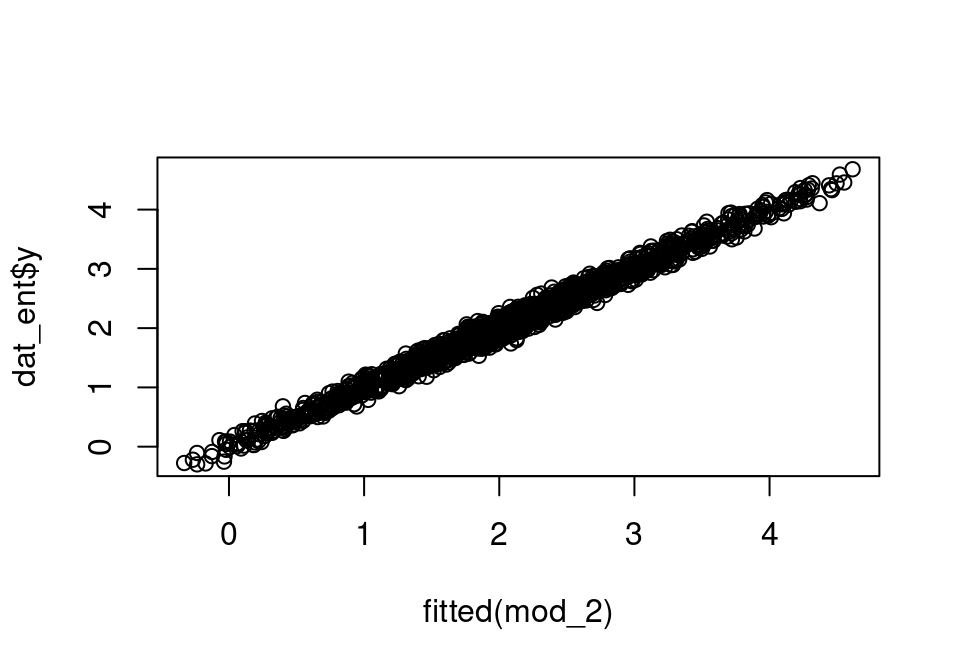
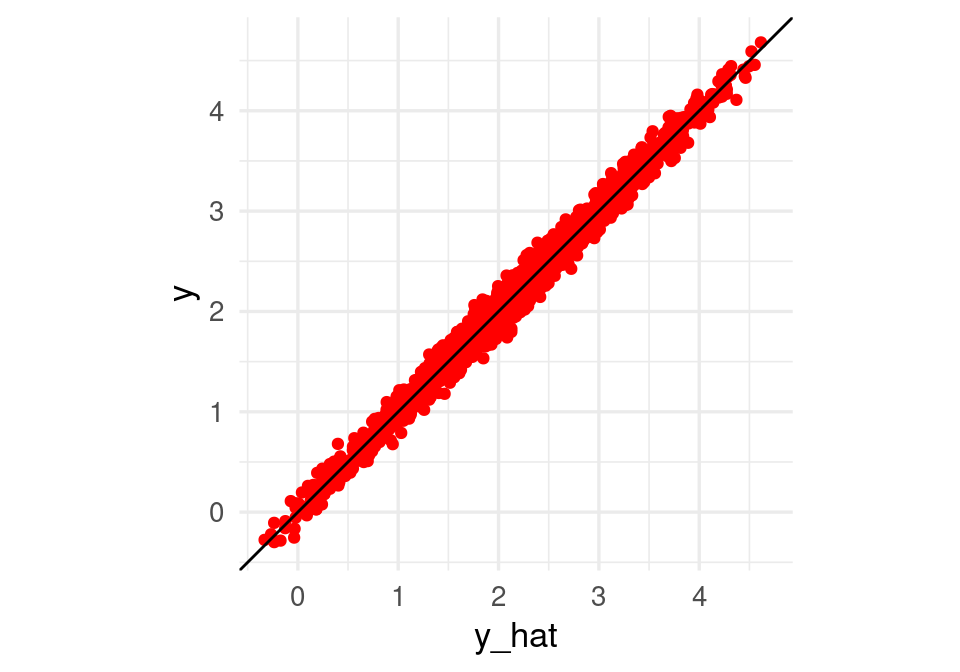
Deploying to gh-pages from @ felipegonzalez/aprendizaje-maquina-mcd-2023@daa3345ac498880e7dccf227820fdfc2909926fc 🚀

diff --git a/06-redes-neuronales-1.html b/06-redes-neuronales-1.html
@@ -489,19 +489,19 @@ La función logística está dada por <span class="math display">\[h(x)=\frac{e^
 <div class="sourceCode cell-code" id="cb26"><pre class="sourceCode r code-with-copy"><code class="sourceCode r"><span id="cb26-1"><a href="#cb26-1" aria-hidden="true" tabindex="-1"></a><span class="fu">get_weights</span>(ejemplo_mod)</span></code><button title="Copiar al portapapeles" class="code-copy-button"><i class="bi"></i></button></pre></div>
 <div class="cell-output cell-output-stdout">
 <pre><code>[[1]]
-         [,1]     [,2]
-[1,] 2.161883 3.875308
+         [,1]    [,2]
+[1,] 2.150227 3.87858
 
 [[2]]
-[1] -1.957988  3.943473
+[1] -1.935077  3.943532
 
 [[3]]
           [,1]
-[1,] -3.081656
-[2,]  3.054342
+[1,] -3.088956
+[2,]  3.060517
 
 [[4]]
-[1] -1.518722</code></pre>
+[1] -1.517978</code></pre>
 </div>
 </div>
 <p><strong>Ejercicio</strong>: compara los coeficientes que obtuviste en este ejemplo con los anteriores.</p>
@@ -543,7 +543,10 @@ Coefficients:
 </div>
 <p>El resultado del modelo lineal no es bueno:</p>
 <div class="cell">
-<div class="sourceCode cell-code" id="cb31"><pre class="sourceCode r code-with-copy"><code class="sourceCode r"><span id="cb31-1"><a href="#cb31-1" aria-hidden="true" tabindex="-1"></a><span class="fu">plot</span>(<span class="fu">fitted</span>(mod_1), dat_ent<span class="sc">$</span>y)</span></code><button title="Copiar al portapapeles" class="code-copy-button"><i class="bi"></i></button></pre></div>
+<div class="sourceCode cell-code" id="cb31"><pre class="sourceCode r code-with-copy"><code class="sourceCode r"><span id="cb31-1"><a href="#cb31-1" aria-hidden="true" tabindex="-1"></a><span class="fu">tibble</span>(<span class="at">y_hat =</span> <span class="fu">fitted</span>(mod_1), <span class="at">y =</span> dat_ent<span class="sc">$</span>y) <span class="sc">|&gt;</span> </span>
+<span id="cb31-2"><a href="#cb31-2" aria-hidden="true" tabindex="-1"></a>  <span class="fu">ggplot</span>(<span class="fu">aes</span>(<span class="at">x =</span> y_hat, <span class="at">y =</span> y)) <span class="sc">+</span> <span class="fu">geom_point</span>(<span class="at">color =</span> <span class="st">"red"</span>) <span class="sc">+</span></span>
+<span id="cb31-3"><a href="#cb31-3" aria-hidden="true" tabindex="-1"></a>  <span class="fu">geom_abline</span>() <span class="sc">+</span></span>
+<span id="cb31-4"><a href="#cb31-4" aria-hidden="true" tabindex="-1"></a>  <span class="fu">coord_obs_pred</span>()</span></code><button title="Copiar al portapapeles" class="code-copy-button"><i class="bi"></i></button></pre></div>
 <div class="cell-output-display">
 <p><img src="06-redes-neuronales-1_files/figure-html/unnamed-chunk-26-1.png" class="img-fluid" width="480"></p>
 </div>
@@ -561,7 +564,10 @@ Coefficients:
 (Intercept)           x1           x2        x1:x2  
       4.499       -4.895       -4.885        9.964  </code></pre>
 </div>
-<div class="sourceCode cell-code" id="cb34"><pre class="sourceCode r code-with-copy"><code class="sourceCode r"><span id="cb34-1"><a href="#cb34-1" aria-hidden="true" tabindex="-1"></a><span class="fu">plot</span>(<span class="fu">fitted</span>(mod_2), dat_ent<span class="sc">$</span>y)</span></code><button title="Copiar al portapapeles" class="code-copy-button"><i class="bi"></i></button></pre></div>
+<div class="sourceCode cell-code" id="cb34"><pre class="sourceCode r code-with-copy"><code class="sourceCode r"><span id="cb34-1"><a href="#cb34-1" aria-hidden="true" tabindex="-1"></a><span class="fu">tibble</span>(<span class="at">y_hat =</span> <span class="fu">fitted</span>(mod_2), <span class="at">y =</span> dat_ent<span class="sc">$</span>y) <span class="sc">|&gt;</span> </span>
+<span id="cb34-2"><a href="#cb34-2" aria-hidden="true" tabindex="-1"></a>  <span class="fu">ggplot</span>(<span class="fu">aes</span>(<span class="at">x =</span> y_hat, <span class="at">y =</span> y)) <span class="sc">+</span> <span class="fu">geom_point</span>(<span class="at">color =</span> <span class="st">"red"</span>) <span class="sc">+</span></span>
+<span id="cb34-3"><a href="#cb34-3" aria-hidden="true" tabindex="-1"></a>  <span class="fu">geom_abline</span>() <span class="sc">+</span></span>
+<span id="cb34-4"><a href="#cb34-4" aria-hidden="true" tabindex="-1"></a>  <span class="fu">coord_obs_pred</span>()</span></code><button title="Copiar al portapapeles" class="code-copy-button"><i class="bi"></i></button></pre></div>
 <div class="cell-output-display">
 <p><img src="06-redes-neuronales-1_files/figure-html/unnamed-chunk-27-1.png" class="img-fluid" width="480"></p>
 </div>
@@ -578,11 +584,11 @@ Coefficients:
 </div>
 <div class="cell">
 <div class="sourceCode cell-code" id="cb36"><pre class="sourceCode r code-with-copy"><code class="sourceCode r"><span id="cb36-1"><a href="#cb36-1" aria-hidden="true" tabindex="-1"></a>mod_inter <span class="sc">|&gt;</span> <span class="fu">compile</span>(<span class="at">loss =</span> <span class="st">"mse"</span>, </span>
-<span id="cb36-2"><a href="#cb36-2" aria-hidden="true" tabindex="-1"></a>  <span class="at">optimizer =</span> <span class="fu">optimizer_sgd</span>(<span class="at">learning_rate =</span> <span class="fl">0.05</span>))</span>
+<span id="cb36-2"><a href="#cb36-2" aria-hidden="true" tabindex="-1"></a>  <span class="at">optimizer =</span> <span class="fu">optimizer_sgd</span>(<span class="at">learning_rate =</span> <span class="fl">0.1</span>))</span>
 <span id="cb36-3"><a href="#cb36-3" aria-hidden="true" tabindex="-1"></a>historia <span class="ot">&lt;-</span> mod_inter <span class="sc">|&gt;</span> </span>
 <span id="cb36-4"><a href="#cb36-4" aria-hidden="true" tabindex="-1"></a>  <span class="fu">fit</span>(dat_ent <span class="sc">|&gt;</span> <span class="fu">select</span>(x1, x2) <span class="sc">|&gt;</span> <span class="fu">as.matrix</span>(), dat_ent<span class="sc">$</span>y,</span>
-<span id="cb36-5"><a href="#cb36-5" aria-hidden="true" tabindex="-1"></a>      <span class="at">batch_size =</span> <span class="dv">32</span>,</span>
-<span id="cb36-6"><a href="#cb36-6" aria-hidden="true" tabindex="-1"></a>      <span class="at">epochs =</span> <span class="dv">500</span>, <span class="at">verbose =</span> <span class="dv">0</span>)</span></code><button title="Copiar al portapapeles" class="code-copy-button"><i class="bi"></i></button></pre></div>
+<span id="cb36-5"><a href="#cb36-5" aria-hidden="true" tabindex="-1"></a>      <span class="at">batch_size =</span> <span class="dv">10</span>,</span>
+<span id="cb36-6"><a href="#cb36-6" aria-hidden="true" tabindex="-1"></a>      <span class="at">epochs =</span> <span class="dv">100</span>, <span class="at">verbose =</span> <span class="dv">0</span>)</span></code><button title="Copiar al portapapeles" class="code-copy-button"><i class="bi"></i></button></pre></div>
 </div>
 <p>Verificamos que esta red captura la interacción:</p>
 <div class="cell">
@@ -614,10 +620,10 @@ Coefficients:
 <span id="cb39-6"><a href="#cb39-6" aria-hidden="true" tabindex="-1"></a>pred_mat</span></code><button title="Copiar al portapapeles" class="code-copy-button"><i class="bi"></i></button></pre></div>
 <div class="cell-output cell-output-stdout">
 <pre><code>         [,1] [,2] [,3] [,4]
-apagadas 0.01 0.75 0.22 0.26
-segunda  0.10 0.12 0.75 0.01
-primera  0.06 0.10 0.00 0.69
-ambas    0.51 0.01 0.04 0.04</code></pre>
+apagadas 0.00 0.08 0.66 0.05
+segunda  0.11 0.68 0.13 0.00
+primera  0.05 0.00 0.04 0.65
+ambas    0.65 0.07 0.00 0.06</code></pre>
 </div>
 </div>
 <p>Los pesos de la última capa son:</p>
@@ -626,13 +632,13 @@ ambas    0.51 0.01 0.04 0.04</code></pre>
 <div class="cell-output cell-output-stdout">
 <pre><code>[[1]]
           [,1]
-[1,]  5.497053
-[2,]  5.364990
-[3,] -4.103584
-[4,] -4.066984
+[1,]  4.540478
+[2,] -4.669443
+[3,]  4.144367
+[4,] -3.954614
 
 [[2]]
-[1] 1.904854</code></pre>
+[1] 1.96708</code></pre>
 </div>
 </div>
 <p><strong>Ejercicio</strong>: interpreta la red en términos de qué unidades están <em>encendidas</em> (valor cercano a 1) o <em>apagadas</em> (valor cercano a 0). ¿Puedes ajustar este modelo con dos tres unidades intermedias? Haz varias pruebas: ¿qué dificultades encuentras?</p>

diff --git a/81-apendice-descenso.html b/81-apendice-descenso.html
@@ -565,7 +565,7 @@ Gradiente para regresión lineal
 <pre><code>[[1]]
             [,1]
 [1,] 0.007331367
-[2,] 0.016437238
+[2,] 0.016437240
 [3,] 0.004633876
 
 [[2]]
@@ -743,7 +743,7 @@ Cuando normalizamos antes de ajustar el modelo, las predicciones deben hacerse c
 <div class="cell-output cell-output-stdout">
 <pre><code>[[1]]
             [,1]
-[1,] -0.22045916
+[1,] -0.22045918
 [2,]  0.23149671
 [3,]  0.09673478
 
@@ -763,11 +763,11 @@ Cuando normalizamos antes de ajustar el modelo, las predicciones deben hacerse c
 <pre><code>[[1]]
              [,1]
 [1,] 0.0079817399
-[2,] 0.0019486139
-[3,] 0.0005532745
+[2,] 0.0019486141
+[3,] 0.0005532746
 
 [[2]]
-[1] 0.0003491883</code></pre>
+[1] 0.0003491882</code></pre>
 </div>
 <div class="sourceCode cell-code" id="cb42"><pre class="sourceCode r code-with-copy"><code class="sourceCode r"><span id="cb42-1"><a href="#cb42-1" aria-hidden="true" tabindex="-1"></a><span class="fu">coef</span>(<span class="fu">lm.fit</span>(<span class="fu">cbind</span>(<span class="dv">1</span>, x_ent), y_ent))</span></code><button title="Copiar al portapapeles" class="code-copy-button"><i class="bi"></i></button></pre></div>
 <div class="cell-output cell-output-stdout">

diff --git a/82-apendice-descenso-estocastico.html b/82-apendice-descenso-estocastico.html
@@ -749,13 +749,13 @@ Descenso estocástico con momento
 <div class="sourceCode cell-code" id="cb28"><pre class="sourceCode r code-with-copy"><code class="sourceCode r"><span id="cb28-1"><a href="#cb28-1" aria-hidden="true" tabindex="-1"></a><span class="fu">get_weights</span>(modelo)</span></code><button title="Copiar al portapapeles" class="code-copy-button"><i class="bi"></i></button></pre></div>
 <div class="cell-output cell-output-stdout">
 <pre><code>[[1]]
-            [,1]
-[1,] -1.47209203
-[2,]  0.26201585
-[3,] -0.08321878
+           [,1]
+[1,] -1.5475758
+[2,]  0.3782871
+[3,] -0.0332869
 
 [[2]]
-[1] 0.818653</code></pre>
+[1] 0.862982</code></pre>
 </div>
 </div>
 <p>Y verificamos que concuerda con la salida de <em>glm</em>:</p>
